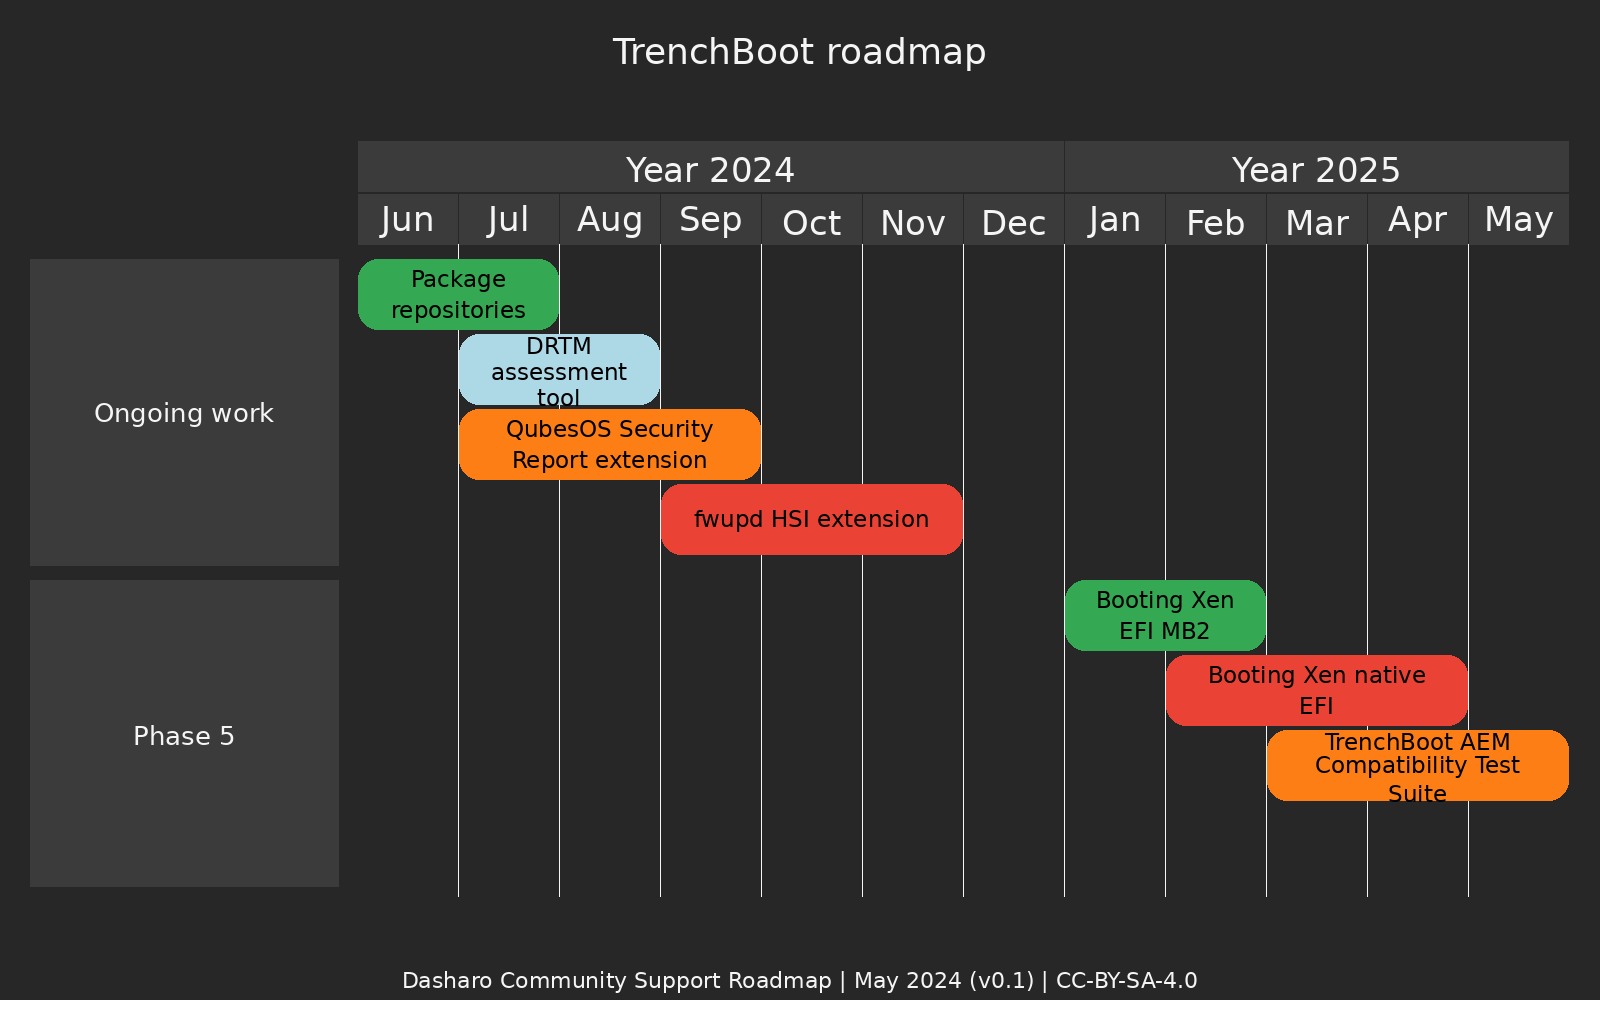
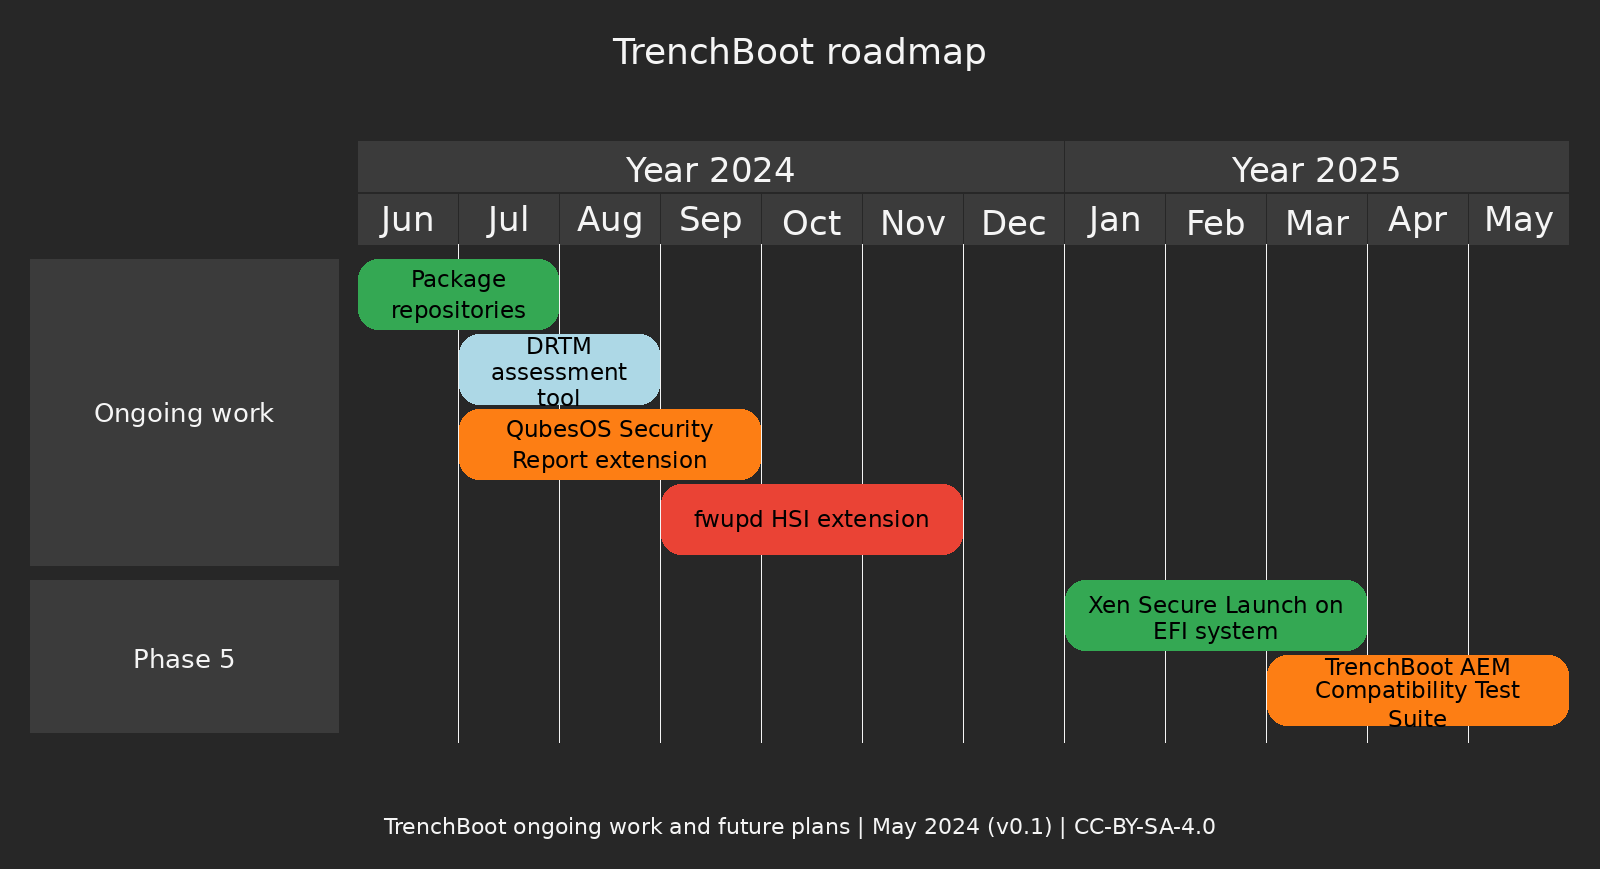
2024/XenSummit: Update Trenchboot roadmap

diff --git a/diagrams/tb_roadmap.py b/diagrams/tb_roadmap.py
@@ -19,11 +19,9 @@ ongoing.add_task("fwupd HSI extension", "2024-09-01", "2024-11-30", style="round
 
 phase5 = roadmap.add_group("Phase 5", font_size=26)
 
-phase5.add_task("Booting Xen EFI MB2", "2025-01-01", "2025-02-28", style="rounded", fill_colour="#34A853", font_size=23)
-phase5.add_task("Secure Launch Resource Table support", "2025-02-01", "2024-04-30", style="rounded", fill_colour="#ADD8E6", font_size=23)
-phase5.add_task("Booting Xen native EFI", "2025-02-01", "2025-04-30", style="rounded", fill_colour="#EA4335", font_size=23)
+phase5.add_task("Xen Secure Launch on EFI system", "2025-01-01", "2025-03-31", style="rounded", fill_colour="#34A853", font_size=23)
 phase5.add_task("TrenchBoot AEM Compatibility Test Suite", "2025-03-01", "2025-06-30", style="rounded", fill_colour="#FD7E14", font_size=23)
 
-roadmap.set_footer(f"Dasharo Community Support Roadmap | {date} ({version}) | CC-BY-SA-4.0")
+roadmap.set_footer(f"TrenchBoot ongoing work and future plans | {date} ({version}) | CC-BY-SA-4.0")
 roadmap.draw()
 roadmap.save("img/tb_roadmap.png")

diff --git a/2024/XenSummit/Challenges_and_Status_of_Enabling_TrenchBoot_in_Xen_Hypervisor.md b/2024/XenSummit/Challenges_and_Status_of_Enabling_TrenchBoot_in_Xen_Hypervisor.md
@@ -298,11 +298,15 @@ SVM basically and BIOS must not disable it).
 
 # Phase 5 - Xen as DLME for UEFI boot mode
 
-.center[.image-85[![](/img/tb_roadmap.png)]]
+.center[.image-99[![](/img/tb_roadmap.png)]]
 
 More details about Secure Launch on [trenchboot.org](https://trenchboot.org/specifications/Secure_Launch/)
 
 ???
+
+Our approach is to use legacy MB2 with EBS called in GRUB2.
+
+Not yet clarified, but also possible (subject to discussion on design session):
 
 - Xen will be able to initiate the DL Event via the code module exposed by DCE
   Preamble (GRUB)
